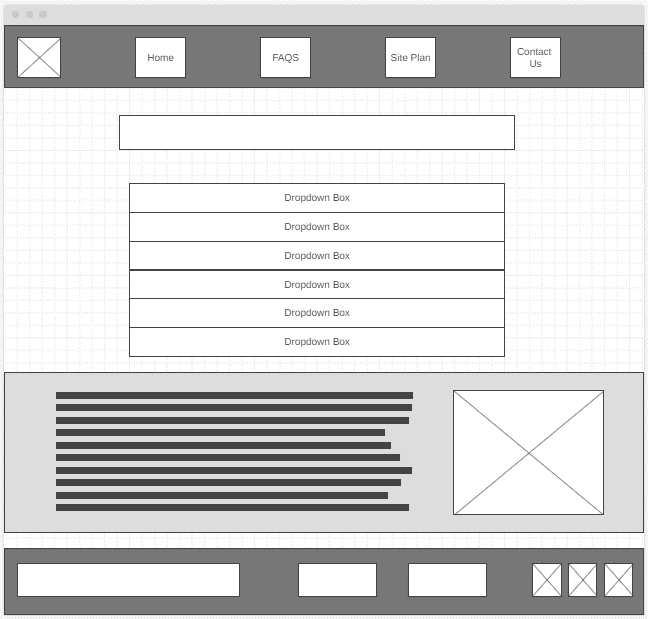
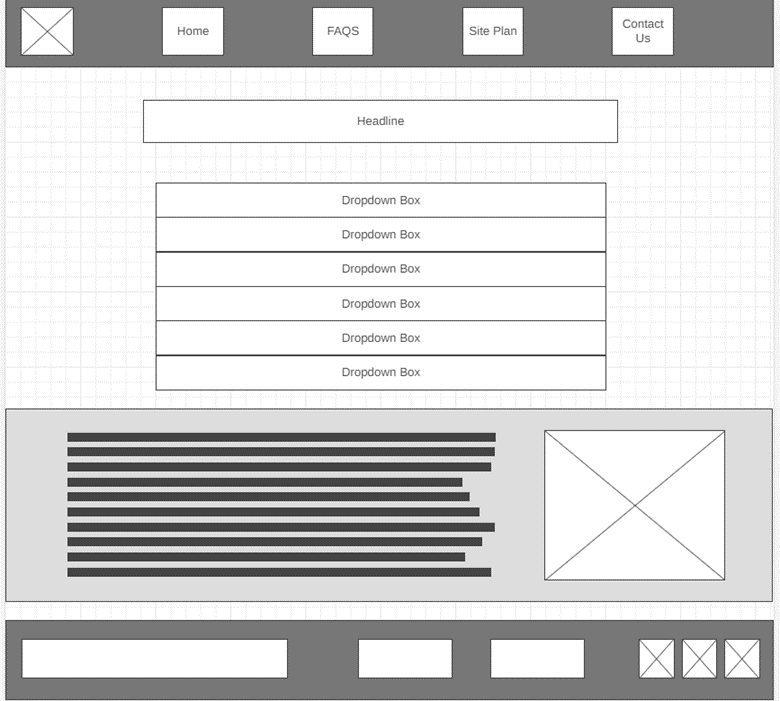
Made Subpage

diff --git a/wwr/faqs.html b/wwr/faqs.html
@@ -1,0 +1,76 @@
+<!DOCTYPE html>
+<html lang="en">
+<head>
+    <meta charset="UTF-8">
+    <meta name="viewport" content="width=device-width, initial-scale=1.0">
+    <title>Whitewater Rafting Activities | Riding Rough Waves | Home</title>
+    <link rel="stylesheet" href="styles/style.css">
+</head>
+<body>
+    <div id="content">
+        <header>
+            <a id="logo_link" href="index.html">
+                <img class="logo" src="images/Logo.png" alt="Rough Waves Logo">
+            </a>
+            <nav>
+                <a href="index.html">Home</a>
+                <a href="#">FAQS</a>
+                <a href="site-plan-rafting.html">Site Plan</a>
+                <a href="contactus.html">Contact Us</a>
+            </nav>
+        </header>
+        <main id="Page2">
+            <h1>Frequently Asked Questions (FAQS)</h1>
+            <section id="One">
+                <h2>Is this a good trip for kids? What are the age ranges you allow?</h2>
+                <p>Absolutely this is a good trip for children of all ages. We have found however that children over the age of 8 seem to enjoy it more overall (And parents especially enjoy it more if their children are all over 8).  A common concern we get from parents is that their children will be bored stuck on a boat for hours at a time. Surprisingly we deal with very few bored children of any age. The areas we are rafting through are some of the most beautiful in the world, and you never know what you might see around any corner. Not to mention the rapids which keep things very interesting. Each boat also comes equipped with a guide. It has been proven that river guides are unable to go for very long at all without telling stories...some of which are even true!</p>
+            </section>
+            <section id="Two">
+                <h2>Is whitewater rafting safe? I don't even know how to swim! Can I still come?</h2>
+                <p>As with all adventure sports, there is an inherent and assumed element of risk. To help ensure your safety, our guides are all certified in Wilderness First aid and all start with at least 3 years of rafting experience. The most common injuries are sunburns and injuries that occur on land.
+                    Everyone on commercial rafting trips wears coast guard approved life vest or personal flotation device (PFD). Many non swimmers go on rafting trips and have a great time. Your guide will give you an in depth and engaging safety talk before your trip begins explaining what you should prepare for and do in the event that you fall out of the raft.</p>
+            </section>
+            <section id="Three">
+                <h2>What is included in the trip?</h2>
+                <p>We will provide all necessary camping equipment. This includes a sleeping bag, foam pad, waterproof duffle bag, small waterproof day bag, tent and a cot, eating utensils and camping chair.
+                    We provide water and lemonade during the day. Coffee, tea and hot chocolate are provided during the morning and evening hours. You may bring beer, liquor and soft drinks (in reasonable amounts, 2 cans per day). You may purchase these items either the night before the trip, or on your way to the put-in. We provide 3 meals a day, plus snacks.</p>
+            </section>
+            <section id="Four">
+                <h2>What do I need to bring?</h2>
+                <p>The most effective way to plan for temperature and weather changes in the Canyon is to be prepared for both hot & dry and cold & wet Rain jacket and rain pants- do not bring ponchos Quick dry shirts and shorts long sleeve cotton shirt and pants- helps keep you cooler on hot days. Button down shirts provide more sun protection on the neck Light Weight Cotton Pant, Nylon Pant or Sarong the best thing for men to wear are swim trunks as shorts if you are cold natured, bring polypropylene long underwear top and bottom Women wear swim suits or quick dry underwear and sport bras as a base layer during the day. Over the base layer, wear a pair of quick dry shorts and the shirt of your choice (polypropylene if you are cold, cotton if you are hot). Two piece swim suits are convenient when changing or going to the bathroom. hat- large brim hat offers protection from the sun with a good quality strap. Sunglasses with strap socks- used for hiking and to protect your feet from the sun. sandals or water shoes- if not used to hiking in these, bring a pair of shoes you have hiked in before camper wear: Bring something comfortable to wear around camp. Cotton dresses, skirts and sarongs are all popular options. Sleep wear: You might choose to sleep in your camp wear. Otherwise, you might like to bring something comfortable to sleep in. water bottle small day pack for hikes moisturizing lotion headlamp or flashlight moleskin waterproof sunscreen and lip balm optional items: gloves fleece jacket towel bandana small pillow hygiene products: toothpaste, toothbrush, tissue, nail clippers, feminine hygiene products, extra eyeglasses or contacts, biodegradable soap and shampoo camera equipment book, watercolors, journal and pen.</p>
+            </section>
+            <section id="Five">
+                <h2>What is so great about whitewater rafting?</h2>
+                <p>What's not great about whitewater rafting!...Let's describe a common day on the river.
+                    Arise in the soft light of the early morning after a night spent sleeping under a beautiful starry sky. Have a hearty warm breakfast of fresh blueberry pancakes or omelets to order, then pack your things and prepare for the day. The day is filled with some combination of swift water, rapids, calms, hikes, history, geology, stories, and more good food. We try to hit camp around 4 or 5, after setting up your cot you can relax with a good book or good company by the river, or explore around camp while your guides prepare your dinner...something perhaps like steak and potatoes, or grilled salmon...and dutch oven brownies...you won't forget the dutch oven brownies. After dinner it's more relaxing, and you might even be able to talk your guide into another story or two to send you off to bed under more stars than you thought were possible.</p>
+            </section>
+            <section id="Six">
+                <h2>How far in advance should I book my trip?</h2>
+                <p>If you have specific dates you need, we recommend booking a year in advance. If you can be more flexible 6 months in advance is usually sufficient.</p>
+            </section>
+
+            <article id="conclu">
+                <h1>More Questions</h1>
+                <p>Have a question that's not here? Click the picture to contact us with your question at ridingrough65@gmail.com.</p>
+                <a href="#"><img src="images/Waves.jpg" alt="waves"></a> 
+            </article>
+        </main>
+        <footer>
+            <p>Riding the Rough Waves &copy; 2023 - Rose Pulsipher</p>
+            <p><a href="site-plan-rafting.html">Site Plan</a></p>
+            <p><a href="contactus.html">Contact Us</a></p>
+            <div class="social">
+                <a href="https://facebook.com" target="_blank">
+                    <img src="images/facebook.png" alt="fb icon">
+                </a>
+                <a href="https://twitter.com" target="_blank">
+                    <img src="images/twitter.png" alt="twitter icon">
+                </a>
+                <a href="https://instagram.com" target="_blank">
+                    <img src="images/instagram.png" alt="instagram icon">
+                </a>
+            </div>
+        </footer>
+    </div>
+</body>
+</html>

diff --git a/wwr/styles/style.css b/wwr/styles/style.css
@@ -38,6 +38,20 @@ footer a {color: #89fbf7; text-decoration: none; letter-spacing: 0.2px;}
 footer a:hover {color: #0a2463; text-decoration: underline;}
 .logo {width: 80px}
 .icon {width: 80px; padding-top: 10px;}
+#Page2 article {display: grid; grid-template-columns: 1fr 1fr 1fr; background-color: #89fbf7; color: #0a2463; padding: 5px; text-align: center;}
+#Page2 article h1 {background-color: #89fbf7; grid-column: 1/2; color: #0a2463; text-align: left; margin: 5px 50px; text-decoration: underline;}
+#Page2 article p {grid-column: 1/3; text-align: left; margin: 5px 50px;}
+#Page2 article img {margin: 0; padding: 0; grid-column: 3/4; border-radius: 100px;}
+#Page2 article img:hover {opacity: .6; transform: scale(1.1);transition: transform .5s; box-shadow: 5px 5px 10px #266dd3;}
+#Page2 section {margin: 50px; background-color: #266dd3; padding: 10px; border-radius: 10px;}
+#Page2 section:hover {margin: 50px; background-color: #266dd3; padding: 5px; border-radius: 10px; border: 5px dotted #7f95d1;}
+#Page2 h2 {background-color: #89fbf7; text-transform: none; color: #0a2463; border-radius: 10px;}
+#Page2 h1 {background-color: #89fbf7; margin: 0 auto; text-align: center; padding-top: 15px; padding-bottom: 15px;}
+
+/* select {background-color: #89fbf7; color: #0a2463; padding: 10px; display: block; width: 40%; margin: 0 auto;}
+button {grid-column: 1/5; background-color: #89fbf7; ; color: #0a2463; padding: 10px; margin: 0 auto; text-align: center; width: 100%;}
+.dropdown-container {display: none; background-color: #89fbf7; color: #266dd3; text-emphasis: bold; padding: 2px; width: 100%;}
+option {margin: 10px;} */
 @media screen and (max-width: 900px) {
     #hero, .home-grid {
         display: block;

diff --git a/wwr/site-plan-rafting.html b/wwr/site-plan-rafting.html
@@ -121,7 +121,10 @@
     <img src="https://byui-wdd.github.io/wdd130/rafting_images/wireframe_home.png" alt="home page wireframe" />
 
     <h3>FAQs</h3>
+      <h4>Original</h4>
       <img src="images/Subpage Wireframe.png" alt="Subpage Wireframe">
+      <h4>Revised</h4>
+      <img src="images/Revised Wireframe.png" alt="Revised Subpage Wireframe">
 
   </main>
 </body>

diff --git a/wwr/index.html b/wwr/index.html
@@ -14,7 +14,7 @@
             </a>
             <nav>
                 <a href="index.html">Home</a>
-                <a href="#">Page 2</a>
+                <a href="#">FAQS</a>
                 <a href="site-plan-rafting.html">Site Plan</a>
                 <a href="contactus.html">Contact Us</a>
             </nav>
